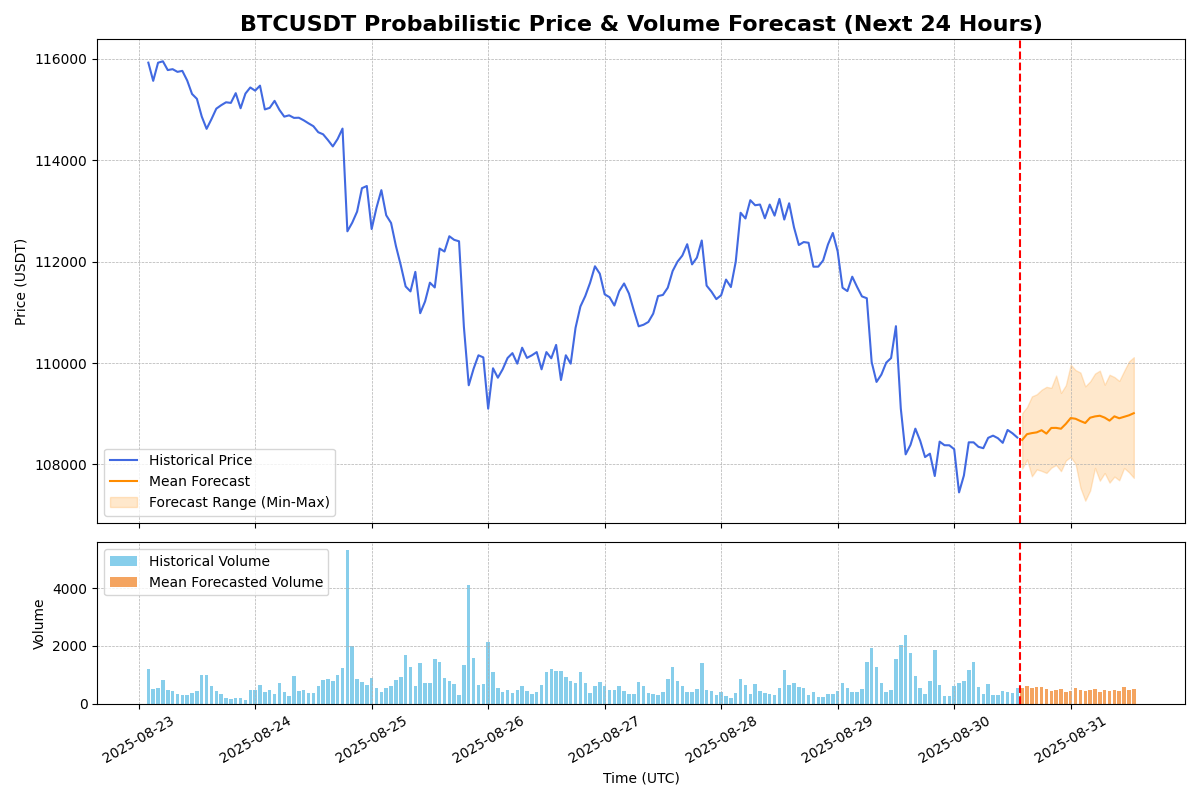
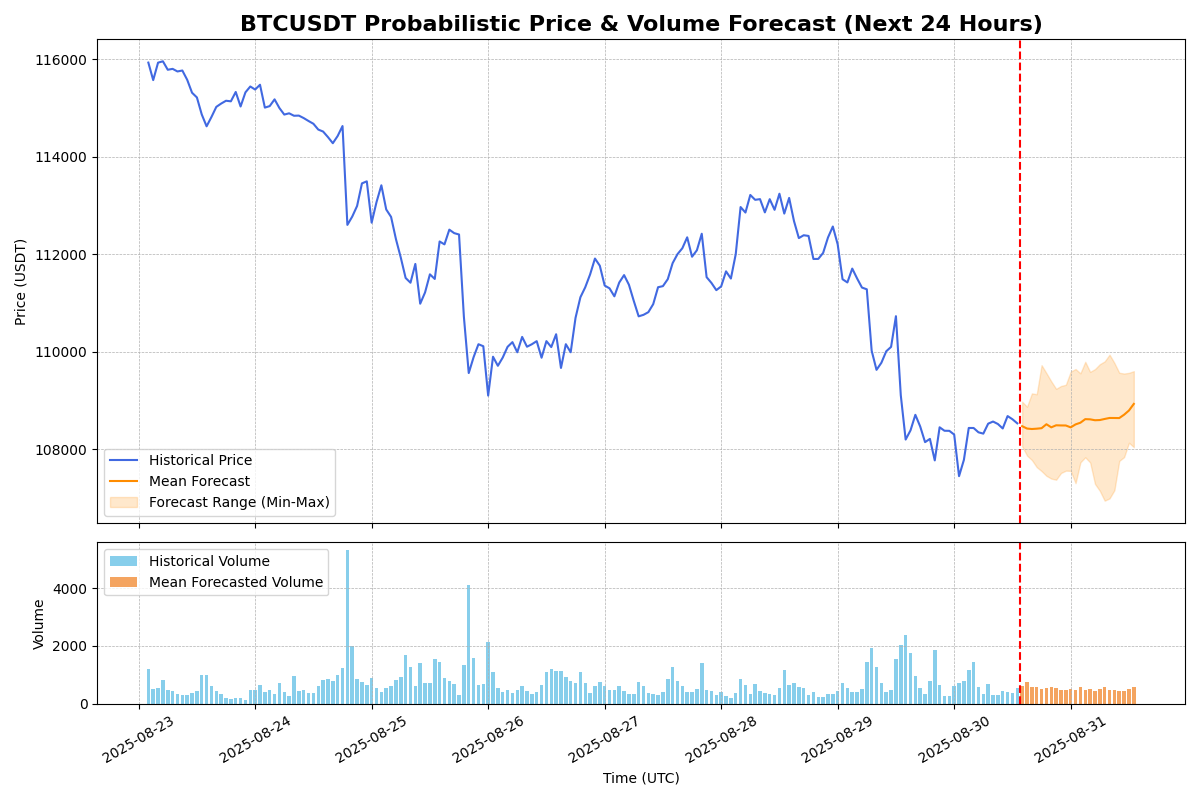
s

diff --git a/index.html b/index.html
@@ -20,7 +20,7 @@
     <main class="container">
         <section id="live-dashboard">
             <div class="metadata">
-                <span>服务运行生成数据时间: <strong>2025-08-30 14:17:36</strong></span>
+                <span>服务运行生成数据时间: <strong>2025-08-30 14:37:56</strong></span>
                 <span>数据来源: Binance (via CCXT) | 时间间隔: 1小时</span>
             </div>
                <div class="chart-wrapper">
@@ -47,30 +47,7 @@
             <div class="chart-wrapper">
                 <h3>24小时概率预测</h3>
                 <div class="chart-container">
-                    <img src="public\img\btcusdt_prediction.png" alt="BTCUSDT价格和交易量预测图表" class="chart-img">
-                </div>
-            </div>
-            <hr>
-
-            <h2>ETHUSDT 预测</h2>
-            
-            <div class="metrics-container">
-                <div class="metric-card">
-                    <h3>上涨概率 (未来24小时)</h3>
-                    <p class="metric-value" id="upside-prob-ETHUSDT">53.3%</p>
-                    <div class="metric-desc">模型对24小时后价格高于当前价格的信心程度。</div>
-                </div>
-                <div class="metric-card">
-                    <h3>波动性增加 (未来24小时)</h3>
-                    <p class="metric-value" id="vol-amp-prob-ETHUSDT">0.0%</p>
-                    <div class="metric-desc">未来24小时预测波动性超过近期历史波动性的概率。</div>
-                </div>
-            </div>
-
-            <div class="chart-wrapper">
-                <h3>24小时概率预测</h3>
-                <div class="chart-container">
-                    <img src="public\img\ethusdt_prediction.png" alt="ETHUSDT价格和交易量预测图表" class="chart-img">
+                    <img src="img/btcusdt_prediction.png" alt="BTCUSDT价格和交易量预测图表" class="chart-img">
                 </div>
             </div>
             <hr>
@@ -80,12 +57,12 @@
             <div class="metrics-container">
                 <div class="metric-card">
                     <h3>上涨概率 (未来24小时)</h3>
-                    <p class="metric-value" id="upside-prob-SOLUSDT">40.0%</p>
+                    <p class="metric-value" id="upside-prob-SOLUSDT">26.7%</p>
                     <div class="metric-desc">模型对24小时后价格高于当前价格的信心程度。</div>
                 </div>
                 <div class="metric-card">
                     <h3>波动性增加 (未来24小时)</h3>
-                    <p class="metric-value" id="vol-amp-prob-SOLUSDT">6.7%</p>
+                    <p class="metric-value" id="vol-amp-prob-SOLUSDT">0.0%</p>
                     <div class="metric-desc">未来24小时预测波动性超过近期历史波动性的概率。</div>
                 </div>
             </div>
@@ -93,7 +70,7 @@
             <div class="chart-wrapper">
                 <h3>24小时概率预测</h3>
                 <div class="chart-container">
-                    <img src="public\img\solusdt_prediction.png" alt="SOLUSDT价格和交易量预测图表" class="chart-img">
+                    <img src="img/solusdt_prediction.png" alt="SOLUSDT价格和交易量预测图表" class="chart-img">
                 </div>
             </div>
             <hr>
@@ -103,7 +80,7 @@
             <div class="metrics-container">
                 <div class="metric-card">
                     <h3>上涨概率 (未来24小时)</h3>
-                    <p class="metric-value" id="upside-prob-SUIUSDT">100.0%</p>
+                    <p class="metric-value" id="upside-prob-SUIUSDT">93.3%</p>
                     <div class="metric-desc">模型对24小时后价格高于当前价格的信心程度。</div>
                 </div>
                 <div class="metric-card">
@@ -116,7 +93,7 @@
             <div class="chart-wrapper">
                 <h3>24小时概率预测</h3>
                 <div class="chart-container">
-                    <img src="public\img\suiusdt_prediction.png" alt="SUIUSDT价格和交易量预测图表" class="chart-img">
+                    <img src="img/suiusdt_prediction.png" alt="SUIUSDT价格和交易量预测图表" class="chart-img">
                 </div>
             </div>
             <hr>
@@ -131,7 +108,7 @@
                 </div>
                 <div class="metric-card">
                     <h3>波动性增加 (未来24小时)</h3>
-                    <p class="metric-value" id="vol-amp-prob-BNBUSDT">40.0%</p>
+                    <p class="metric-value" id="vol-amp-prob-BNBUSDT">53.3%</p>
                     <div class="metric-desc">未来24小时预测波动性超过近期历史波动性的概率。</div>
                 </div>
             </div>
@@ -139,7 +116,7 @@
             <div class="chart-wrapper">
                 <h3>24小时概率预测</h3>
                 <div class="chart-container">
-                    <img src="public\img\bnbusdt_prediction.png" alt="BNBUSDT价格和交易量预测图表" class="chart-img">
+                    <img src="img/bnbusdt_prediction.png" alt="BNBUSDT价格和交易量预测图表" class="chart-img">
                 </div>
             </div>
             <hr>
@@ -154,7 +131,7 @@
                 </div>
                 <div class="metric-card">
                     <h3>波动性增加 (未来24小时)</h3>
-                    <p class="metric-value" id="vol-amp-prob-DOGEUSDT">13.3%</p>
+                    <p class="metric-value" id="vol-amp-prob-DOGEUSDT">6.7%</p>
                     <div class="metric-desc">未来24小时预测波动性超过近期历史波动性的概率。</div>
                 </div>
             </div>
@@ -162,7 +139,7 @@
             <div class="chart-wrapper">
                 <h3>24小时概率预测</h3>
                 <div class="chart-container">
-                    <img src="public\img\dogeusdt_prediction.png" alt="DOGEUSDT价格和交易量预测图表" class="chart-img">
+                    <img src="img/dogeusdt_prediction.png" alt="DOGEUSDT价格和交易量预测图表" class="chart-img">
                 </div>
             </div>
             <hr>
